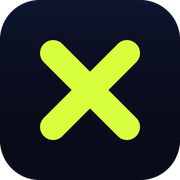
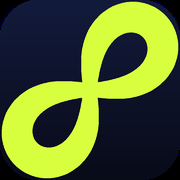
Новий знак: петля замість хрестика
Знак — безперервна стрічка, що перетинає сама себе: повний цикл без
розривів. Той самий контур і в SVG, і в растрі.

- assets/favicon.svg, mark.svg і повний набір PNG перезібрані зі знака
- у шапці сайту замість крапки стоїть сам знак через CSS-маску,
  тому він фарбується змінною акценту і має те саме світіння

diff --git a/ixonity-site-legal/styles.css b/ixonity-site-legal/styles.css
@@ -96,8 +96,10 @@ p{margin:0}
 .hdr.up{transform:translateY(-115%)}
 .brand{display:flex;align-items:center;gap:10px;color:var(--fg);
   font-family:var(--f-poster);font-weight:700;text-transform:uppercase;font-size:1.15rem;letter-spacing:.01em}
-.brand i{width:11px;height:11px;background:var(--acid);border-radius:50%;display:block;
-  box-shadow:0 0 14px #D8FF3E}
+.brand i{width:26px;height:26px;background:var(--acid);display:block;flex:none;
+  -webkit-mask:url(assets/mark.svg) center/contain no-repeat;
+          mask:url(assets/mark.svg) center/contain no-repeat;
+  filter:drop-shadow(0 0 11px rgba(216,255,62,.5))}
 .nav{display:flex;gap:2px}
 .nav a{position:relative;padding:9px 14px;color:var(--dim);font-size:.86rem;font-weight:600;
   border-radius:100px;transition:color .3s}
